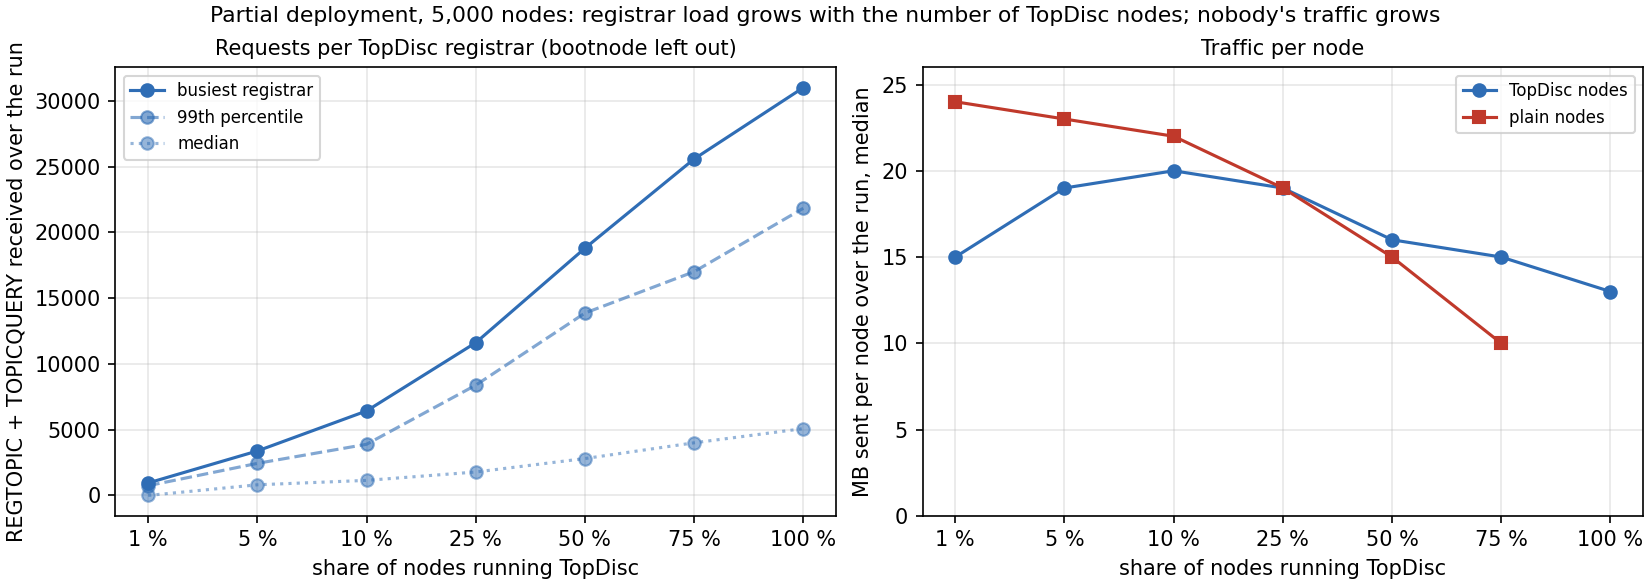
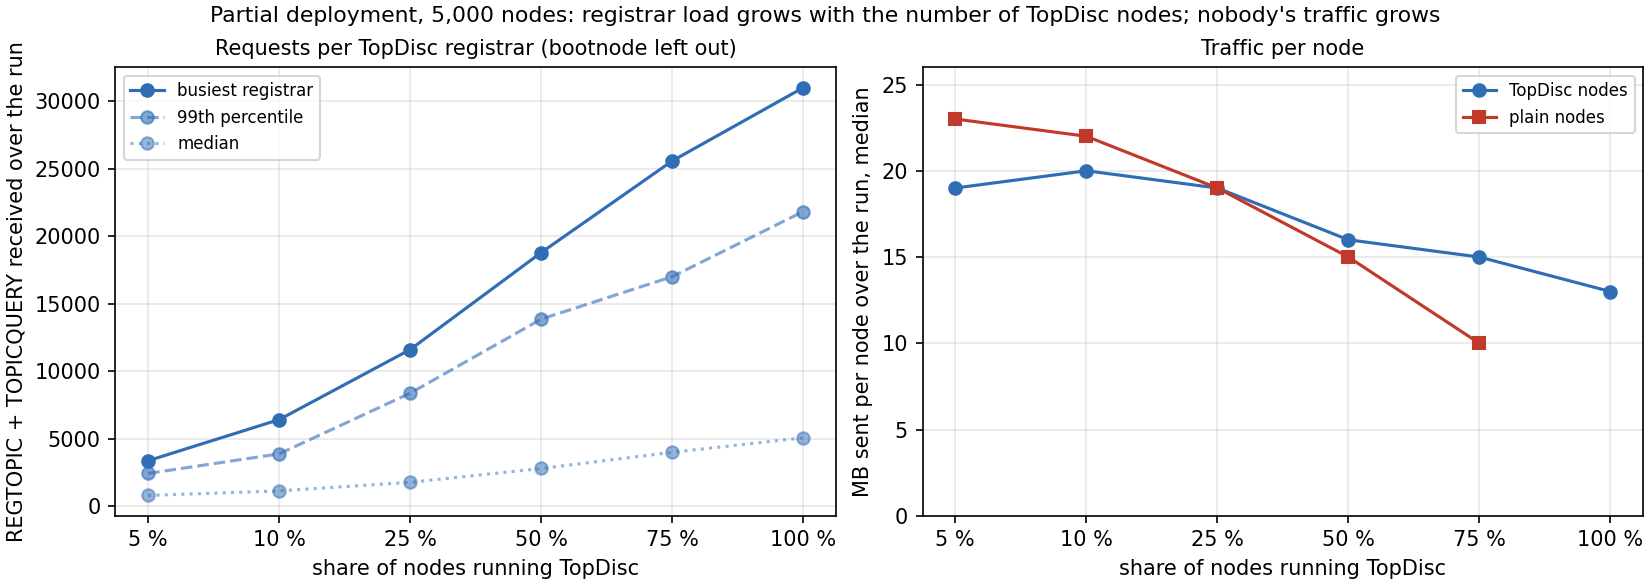
docs/final-report: drop the 1 % deployment share

diff --git a/docs/final-report/deploy/README.md b/docs/final-report/deploy/README.md
@@ -4,20 +4,19 @@
 
 ## Summary
 
-TopDisc nodes find the TopDisc nodes of their topic from 5 % deployment on, and nodes that do not run TopDisc are not affected at any share. At 1 % deployment, TopDisc nodes are too scarce to find each other reliably.
+TopDisc nodes find the TopDisc nodes of their topic at every deployment share tested, from 5 % to 100 % of the network, and nodes that do not run TopDisc are not affected.
 
-- From 5 % to 100 % deployment the median TopDisc searcher finds 99.8 % to 100 % of its topic's TopDisc providers; from 10 % on, 9 in 10 find at least 94.7 %.
-- At 1 % (46 TopDisc nodes in 5,000) the median TopDisc searcher finds 83.3 % and needs 8 min for half, no faster than a plain walk: 37 % of TopDisc nodes never meet another TopDisc node in their routing table.
+- The median TopDisc searcher finds 99.8 % to 100 % of its topic's TopDisc providers; from 10 % on, 9 in 10 find at least 94.7 %.
 - At 25 % deployment, TopDisc searchers reach half of their providers in 5.3 s; plain discv5 searchers need 7.5 min for half of theirs.
 - Registrar load grows with the number of TopDisc nodes, so a small deployment does not concentrate load: the busiest registrar receives 11,614 requests at 25 % against 31,000 at 100 %.
 - No topic message reaches a plain node at any share, and plain nodes send less traffic as the TopDisc share grows.
 
 ## Scenario and setup
 
-Eight 5,000-node runs on the AWS packed testbed (10 hosts, 500 nodes per host, each node with a 1 Mbit/s link and 4 to 45 ms one-way delay), each with a 90 min continuous search per node.
+Seven 5,000-node runs on the AWS packed testbed (10 hosts, 500 nodes per host, each node with a 1 Mbit/s link and 4 to 45 ms one-way delay), each with a 90 min continuous search per node.
 
-- **Deployment share.** TopDisc runs on 0, 1, 5, 10, 25, 50, 75 or 100 % of the nodes, drawn within every topic, so each topic keeps roughly the run's share of TopDisc nodes. The other nodes run plain discv5 built from the same code base.
-- **Two sweeps, same workload.** The 0, 25, 50, 75 and 100 % runs come from a sweep on 2026-10-26, the 1, 5 and 10 % runs from a second sweep on 2026-10-27.
+- **Deployment share.** TopDisc runs on 0, 5, 10, 25, 50, 75 or 100 % of the nodes, drawn within every topic, so each topic keeps roughly the run's share of TopDisc nodes. The other nodes run plain discv5 built from the same code base.
+- **Two sweeps, same workload.** The 0, 25, 50, 75 and 100 % runs come from a sweep on 2026-10-26, the 5 and 10 % runs from a second sweep on 2026-10-27.
 - **Topics.** 98 topics sized by the chain shares of a 24 h mainnet crawl. Every node registers and searches one topic.
 - **Churn.** Node sessions replayed from the [crawl's churn analysis](../../churn-analysis.md), as in the main report.
 - **Scoring.** A TopDisc searcher is scored against the TopDisc providers of its topic, a plain searcher against all providers of its topic, counting only providers up at the end of the search. A TopDisc node alone in its topic has nobody to find and is not scored.
@@ -29,8 +28,6 @@ Eight 5,000-node runs on the AWS packed testbed (10 hosts, 500 nodes per host, e
 | TopDisc share | Node type | Searchers / scored | Recall, median / 10th pct | First provider, median | Time to 50 % | Time to 90 % |
 |---:|---|---:|---:|---:|---:|---:|
 | 0 % | plain | 4,996 / 4,976 | 89.9 / 46.9 % | 0 ms | 7.7 min | not reached by half |
-| 1 % | TopDisc | 46 / 36 | 83.3 / 0.0 % | 8.8 s | 8.0 min | not reached by half |
-| 1 % | plain | 4,950 / 4,930 | 89.5 / 47.2 % | 0 ms | 7.6 min | not reached by half |
 | 5 % | TopDisc | 240 / 223 | 100.0 / 74.1 % | 4.0 s | 4.5 s | 8.6 min |
 | 5 % | plain | 4,756 / 4,736 | 88.1 / 47.1 % | 0 ms | 7.6 min | not reached by half |
 | 10 % | TopDisc | 496 / 461 | 100.0 / 96.9 % | 2.4 s | 3.4 s | 16.8 min |
@@ -45,11 +42,10 @@ Eight 5,000-node runs on the AWS packed testbed (10 hosts, 500 nodes per host, e
 
 *A plain searcher's first provider at 0 ms is a provider already in its routing table when the search starts. Times are medians over searchers.*
 
-**Reading.** From 5 % on, TopDisc's recall does not depend on the share: a TopDisc node finds the others through registrars, wherever they sit. Time to 50 % grows from 5.3 s to 15.3 s with the share, as each topic holds more TopDisc providers to collect. Plain searchers stay at the speed of a random walk, about 7.5 min to half of their topic. At 1 % TopDisc loses its advantage: with 46 TopDisc nodes in the network, a TopDisc node often has no other TopDisc node in its routing table to start from (63 % saw one by the end of the search), so its search has few or no registrars to ask.
+**Reading.** TopDisc's recall does not depend on the share: a TopDisc node finds the others through registrars, wherever they sit. Time to 50 % grows from 5.3 s to 15.3 s with the share, as each topic holds more TopDisc providers to collect. Plain searchers stay at the speed of a random walk, about 7.5 min to half of their topic.
 
 | TopDisc share | Topics with no TopDisc node | with one | with two or more |
 |---:|---:|---:|---:|
-| 1 % | 83 | 10 | 5 |
 | 5 % | 63 | 17 | 18 |
 | 10 % | 40 | 30 | 28 |
 | 25 % | 23 | 29 | 46 |
@@ -65,7 +61,6 @@ The slower time to 90 % at 10 %, 50 % and 75 % comes from the largest topics; to
 | TopDisc share | TopDisc recall, median / 10th pct | TopDisc time to 50 % / 90 % | plain recall, median / 10th pct | plain time to 50 % / 90 % |
 |---:|---:|---:|---:|---:|
 | 0 % | – | – / – | 90.0 / 42.8 % | 7.8 min / 89.0 min |
-| 1 % | 83.3 / 0.0 % | 16.1 min / not reached by half | 89.5 / 42.7 % | 7.7 min / not reached by half |
 | 5 % | 97.8 / 80.2 % | 4.5 s / 23.8 min | 88.0 / 41.9 % | 7.7 min / not reached by half |
 | 10 % | 100.0 / 97.6 % | 4.5 s / 30.5 min | 90.4 / 42.9 % | 7.7 min / 86.3 min |
 | 25 % | 99.7 / 94.0 % | 7.4 s / 18.6 min | 91.7 / 45.2 % | 7.5 min / 76.4 min |
@@ -78,7 +73,6 @@ The slower time to 90 % at 10 %, 50 % and 75 % comes from the largest topics; to
 | TopDisc share | TopDisc recall, median / 10th pct | TopDisc time to 50 % / 90 % | plain recall, median / 10th pct | plain time to 50 % / 90 % |
 |---:|---:|---:|---:|---:|
 | 0 % | – | – / – | 90.3 / 67.1 % | 7.0 min / 79.9 min |
-| 1 % | 100.0 / 0.0 % | 6.8 s / 16.2 s | 90.9 / 64.9 % | 7.0 min / 74.4 min |
 | 5 % | 100.0 / 83.3 % | 4.0 s / 5.2 s | 89.6 / 63.4 % | 7.1 min / not reached by half |
 | 10 % | 100.0 / 100.0 % | 2.4 s / 5.7 s | 91.9 / 63.8 % | 7.0 min / 64.6 min |
 | 25 % | 100.0 / 100.0 % | 2.4 s / 7.4 s | 91.4 / 60.5 % | 7.1 min / 71.9 min |
@@ -91,7 +85,6 @@ The slower time to 90 % at 10 %, 50 % and 75 % comes from the largest topics; to
 | TopDisc share | TopDisc recall, median / 10th pct | TopDisc time to 50 % / 90 % | plain recall, median / 10th pct | plain time to 50 % / 90 % |
 |---:|---:|---:|---:|---:|
 | 0 % | – | – / – | 87.1 / 51.5 % | 8.3 min / not reached by half |
-| 1 % | – | – / – | 87.7 / 52.2 % | 8.1 min / not reached by half |
 | 5 % | 100.0 / 50.0 % | 7.6 s / 11.6 min | 87.7 / 56.8 % | 8.1 min / not reached by half |
 | 10 % | 100.0 / 75.0 % | 3.3 s / 8.0 min | 88.6 / 56.0 % | 8.3 min / not reached by half |
 | 25 % | 100.0 / 92.9 % | 2.3 s / 4.6 s | 89.9 / 62.5 % | 8.2 min / not reached by half |
@@ -104,7 +97,6 @@ The slower time to 90 % at 10 %, 50 % and 75 % comes from the largest topics; to
 | TopDisc share | TopDisc recall, median / 10th pct | TopDisc time to 50 % / 90 % | plain recall, median / 10th pct | plain time to 50 % / 90 % |
 |---:|---:|---:|---:|---:|
 | 0 % | – | – / – | 85.7 / 25.0 % | 8.7 min / not reached by half |
-| 1 % | – | – / – | 100.0 / 2.0 % | 9.1 min / 85.8 min |
 | 5 % | – | – / – | 92.9 / 33.3 % | 7.3 min / not reached by half |
 | 10 % | – | – / – | 100.0 / 0.0 % | 7.8 min / 56.7 min |
 | 25 % | 100.0 / 100.0 % | 3.1 s / 3.1 s | 100.0 / 22.5 % | 8.9 min / 86.3 min |
@@ -119,7 +111,6 @@ The slower time to 90 % at 10 %, 50 % and 75 % comes from the largest topics; to
 | TopDisc share | Registrars contacted per search, median | Requests per registrar, median / 99th pct / busiest | Busiest / median (check A3, limit 10×) | MB sent per node, median: TopDisc / plain |
 |---:|---:|---:|---:|---:|
 | 0 % | – | – | – | – / 24 |
-| 1 % | 28 | 4 / 744 / 951 | 451× | 15 / 24 |
 | 5 % | 233 | 813 / 2,442 / 3,385 | 5.4× | 19 / 23 |
 | 10 % | 386 | 1,149 / 3,892 / 6,427 | 7.2× | 20 / 22 |
 | 25 % | 744 | 1,785 / 8,384 / 11,614 | 7.3× | 19 / 19 |
@@ -129,23 +120,22 @@ The slower time to 90 % at 10 %, 50 % and 75 % comes from the largest topics; to
 
 *Requests are REGTOPIC plus TOPICQUERY received per TopDisc registrar over the run, bootnode left out. A plain search is one continuous walk sending about 37,000 FINDNODE over the 90 min at every share.*
 
-**Reading.** Load per registrar scales with the number of TopDisc nodes and stays within the 10× bound at every share from 5 % on. At 1 % the bound is not meaningful: the median registrar receives 4 requests in 90 min, so a busiest of 951 reads as 451×. Plain nodes send less as the share grows, because fewer plain walkers send FINDNODE to them.
+**Reading.** Load per registrar scales with the number of TopDisc nodes and stays within the 10× bound at every share. Plain nodes send less as the share grows, because fewer plain walkers send FINDNODE to them.
 
 ## Coexistence with plain nodes
 
-| Check | What it asserts | 1 % | 5 % | 10 % | 25 % | 50 % | 75 % |
-|---|---|---|---|---|---|---|---|
-| I1 | no REGTOPIC or TOPICQUERY sent to a plain node | pass | pass | pass | pass | pass | pass |
-| C4 | no plain node in any registrar's ad cache | pass | pass | pass | pass | pass | pass |
-| L2 | no plain node among TopDisc results | pass | pass | pass | pass | pass | pass |
-| I2 | plain nodes still find providers | 18 of 4,584 found none | 17 of 4,404 | 19 of 4,170 | 16 of 3,498 | 9 of 2,336 | 6 of 1,177 |
+| Check | What it asserts | 5 % | 10 % | 25 % | 50 % | 75 % |
+|---|---|---|---|---|---|---|
+| I1 | no REGTOPIC or TOPICQUERY sent to a plain node | pass | pass | pass | pass | pass |
+| C4 | no plain node in any registrar's ad cache | pass | pass | pass | pass | pass |
+| L2 | no plain node among TopDisc results | pass | pass | pass | pass | pass |
+| I2 | plain nodes still find providers | 17 of 4,404 found none | 19 of 4,170 | 16 of 3,498 | 9 of 2,336 | 6 of 1,177 |
 
 *I2 also fails in the 0 % run (17 of 4,625), with the same node ids across runs, so it comes from the workload and not from TopDisc.*
 
 ## Limits
 
-- **1 % deployment.** TopDisc nodes are too few to find each other reliably.
-- **Small topics at low share.** At 25 %, 23 of the 98 topics have no TopDisc node and 29 have exactly one; at 1 %, 83 have none. Those topics cannot be discovered through TopDisc; their nodes still find each other through the plain walk.
+- **Small topics at low share.** At 25 %, 23 of the 98 topics have no TopDisc node and 29 have exactly one. Those topics cannot be discovered through TopDisc; their nodes still find each other through the plain walk.
 - **TopDisc finds TopDisc nodes only.** Plain nodes never register, and a node cannot register another node's record, so a TopDisc searcher sees plain providers only if it also runs the plain discv5 walk.
 - **Plain recall rising with the share** (89.9 % to 95.2 %) is observed, not explained by these runs.
 - **One seed per share.** Each share is a single run.

diff --git a/docs/final-report/README.md b/docs/final-report/README.md
@@ -504,14 +504,13 @@ Grid'5000 pair, found over time and time to reach a share of providers:
 
 ## Partial deployment
 
-TopDisc searchers find the TopDisc providers of their topic from 5 % deployment on, and nodes that do not run TopDisc are not hurt at any share; at 1 %, TopDisc nodes are too scarce to find each other reliably. Full analysis, with results by topic size and the coexistence checks: [partial deployment report](deploy/). 5,000-node AWS runs with churn and the same workload as above (fork `v1.17.2-testbed.23`, 90 min search) ran TopDisc on 1, 5, 10, 25, 50, 75 and 100 % of the nodes, drawn within every topic; the rest ran plain discv5. A 0 % run is the plain baseline. TopDisc searchers are scored against the TopDisc providers of their topic, plain searchers against all providers, counting only providers up at the end.
+TopDisc searchers find the TopDisc providers of their topic at every share from 5 % to 100 %, and nodes that do not run TopDisc are not hurt. Full analysis, with results by topic size and the coexistence checks: [partial deployment report](deploy/). 5,000-node AWS runs with churn and the same workload as above (fork `v1.17.2-testbed.23`, 90 min search) ran TopDisc on 5, 10, 25, 50, 75 and 100 % of the nodes, drawn within every topic; the rest ran plain discv5. A 0 % run is the plain baseline. TopDisc searchers are scored against the TopDisc providers of their topic, plain searchers against all providers, counting only providers up at the end.
 
 ![Partial deployment](deploy.png)
 
 | TopDisc share | TopDisc recall, median / 10th pct | TopDisc time to 50 % / 90 % | Plain recall, median | Plain time to 50 % | Registrar requests, median / busiest |
 |---:|---:|---:|---:|---:|---:|
 | 0 % | – | – | 89.9 % | 7.7 min | – |
-| 1 % | 83.3 / 0.0 % | 8.0 min / not reached | 89.5 % | 7.6 min | 4 / 951 |
 | 5 % | 100.0 / 74.1 % | 4.5 s / 8.6 min | 88.1 % | 7.6 min | 813 / 3,385 |
 | 10 % | 100.0 / 96.9 % | 3.4 s / 16.8 min | 90.5 % | 7.6 min | 1,149 / 6,427 |
 | 25 % | 100.0 / 94.7 % | 5.3 s / 9.0 min | 91.5 % | 7.5 min | 1,785 / 11,614 |
@@ -521,7 +520,7 @@ TopDisc searchers find the TopDisc providers of their topic from 5 % deployment 
 
 *Registrar requests are REGTOPIC plus TOPICQUERY received per TopDisc registrar over the run, bootnode left out.*
 
-- **Every share from 5 % works.** At 1 % (46 TopDisc nodes) the median TopDisc searcher finds 83.3 % and is no faster than a plain walk. At 25 % TopDisc searchers reach a median 100 % of their providers and half of them in 5.3 s; plain searchers need 7.5 min for half of theirs.
+- **Every share works.** At 5 % TopDisc searchers reach a median 100 % of their providers and half of them in 4.5 s. At 25 % TopDisc searchers reach a median 100 % of their providers and half of them in 5.3 s; plain searchers need 7.5 min for half of theirs.
 - **Fewer TopDisc nodes do not overload registrars.** Load scales with the number of TopDisc nodes: at 5 % the busiest registrar receives 3,385 requests, at 25 % 11,614, against 31,000 at 100 %.
 - **Plain nodes are not hurt.** No topic message reaches a plain node at any share (check I1 passes). Plain recall rises from 89.9 % at 0 % to 95.2 % at 75 %, and plain nodes send less: fewer plain walkers send FINDNODE to them. The rise is observed, not explained.
 - **Small topics at low share.** At 25 %, 23 of 98 topics have no TopDisc node and 29 have exactly one, so a lone TopDisc node has nobody to find; such searchers are not scorable.
